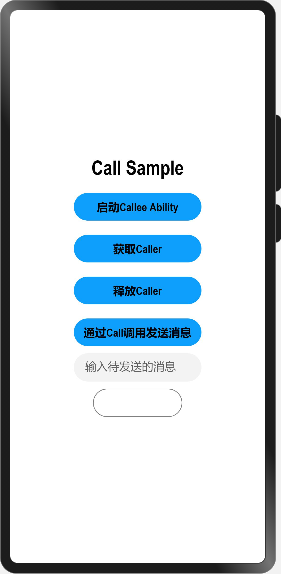
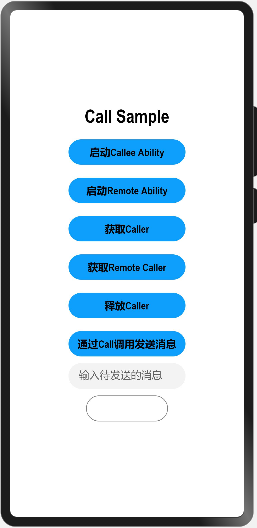
!464 添加跨设备stage demo * update ability/eTSStageCallAbility/entry/src/main/ets/model/ButtonClickModel.ts. * update ability/eTSStageCallAbility/entry/src/main/ets/MainAbility/Main… * update ability/eTSStageCallAbility/entry/src/main/ets/model/ButtonClickModel.ts. * update ability/eTSStageCallAbility/en

diff --git a/ability/eTSStageCallAbility/entry/src/main/ets/MainAbility/MainAbility.ts b/ability/eTSStageCallAbility/entry/src/main/ets/MainAbility/MainAbility.ts
@@ -15,22 +15,74 @@
 
 import Ability from '@ohos.application.Ability'
 import Logger from '../model/Logger'
+import DeviceManager from '@ohos.distributedHardware.deviceManager'
+import AccessControl from "@ohos.abilityAccessCtrl"
+import Bundle from '@ohos.bundle'
 
 const TAG: string = '[MainAbility]'
+const BUNDLE_NAME = "ohos.samples.CallApplication"
+const PERMISSION_REJECT = -1
+
+function getDm() {
+    DeviceManager.createDeviceManager(BUNDLE_NAME, (error, dm) => {
+        if (error) {
+            Logger.error(TAG, `getDm failed with ${error.code}`)
+            return;
+        }
+        Logger.log(TAG, 'getDm success')
+        globalThis.dmClass = dm
+    });
+}
 
 export default class MainAbility extends Ability {
     onCreate(want, launchParam) {
         Logger.log(TAG, 'onCreate')
         globalThis.mainAbilityContext = this.context
+        getDm()
     }
 
     onDestroy() {
         Logger.log(TAG, 'onDestroy')
     }
 
+    requestPermissions = async () => {
+        let permissions: Array<string> = [
+            "ohos.permission.DISTRIBUTED_DATASYNC"
+        ];
+        let needGrantPermission = false
+        let accessManger = AccessControl.createAtManager()
+        Logger.log(TAG, 'app permission get bundle info')
+        let bundleInfo = await Bundle.getApplicationInfo(BUNDLE_NAME, 0, 100)
+        Logger.log(TAG, `app permission query permission ${bundleInfo.accessTokenId.toString()}`)
+        for (const permission of permissions) {
+            Logger.log(TAG, `app permission query grant status ${permission}`)
+            try {
+                let grantStatus = await accessManger.verifyAccessToken(bundleInfo.accessTokenId, permission)
+                if (grantStatus === PERMISSION_REJECT) {
+                    needGrantPermission = true
+                    break;
+                }
+            } catch (err) {
+                Logger.log(TAG, `app permission query grant status error ${permission} ${JSON.stringify(err)}`)
+                needGrantPermission = true
+                break;
+            }
+        }
+        if (needGrantPermission) {
+            Logger.log(TAG, 'app permission needGrantPermission')
+            try {
+                await this.context.requestPermissionsFromUser(permissions)
+            } catch (err) {
+                Logger.log(TAG, `app permission ${JSON.stringify(err)}`)
+            }
+        } else {
+            Logger.log(TAG, 'app permission already granted')
+        }
+    }
+
     onWindowStageCreate(windowStage) {
         Logger.log(TAG, 'onWindowStageCreate')
-
+        this.requestPermissions()
         windowStage.loadContent("pages/index").then((data) => {
             Logger.info(TAG, `load content succeed with data ${JSON.stringify(data)}`)
         }).catch((error) => {

diff --git a/ability/eTSStageCallAbility/entry/src/main/ets/model/ButtonClickModel.ts b/ability/eTSStageCallAbility/entry/src/main/ets/model/ButtonClickModel.ts
@@ -19,7 +19,23 @@ import Logger from '../model/Logger'
 const TAG: string = '[ButtonClickModel]'
 
 let context = globalThis.mainAbilityContext
+let dmClass = globalThis.dmClass
 const MSG_SEND_METHOD: string = 'CallSendMsg'
+
+function getRemoteDeviceId() {
+    Logger.log(TAG, 'getRemoteDeviceId start');
+    if (typeof dmClass === 'object' && dmClass != null) {
+        let list = dmClass.getTrustedDeviceListSync();
+        if (!list || !list.length) {
+            Logger.log(TAG, 'getRemoteDeviceId err: list is null');
+            return;
+        }
+        Logger.log(TAG, `MainAbility onButtonClick getRemoteDeviceId success: ${(list[0].deviceId).str}`);
+        return list[0].deviceId;
+    } else {
+        Logger.log(TAG, 'MainAbility onButtonClick getRemoteDeviceId err: dmClass is null');
+    }
+}
 
 export default class ButtonClickModel {
     caller = undefined
@@ -29,12 +45,26 @@ export default class ButtonClickModel {
     async onButtonStartSecondAbility() {
         try {
             await context.startAbility({
-                bundleName: "com.samples.CallApplication",
+                bundleName: "ohos.samples.CallApplication",
                 abilityName: "CalleeAbility"
             })
             Logger.log(TAG, 'start callee ability succeed')
         } catch (error) {
             Logger.error(TAG, `start callee ability failed with ${error.code}`)
+        }
+    }
+
+    // 跨设备启动一个Ability
+    async onButtonStartRemoteAbility() {
+        try {
+            await context.startAbility({
+                deviceId: getRemoteDeviceId(),
+                bundleName: "ohos.samples.CallApplication",
+                abilityName: "MainAbility"
+            })
+            Logger.log(TAG, 'start remote ability succeed')
+        } catch (error) {
+            Logger.error(TAG, `start remote ability failed with ${error.code}`)
         }
     }
 
@@ -54,7 +84,7 @@ export default class ButtonClickModel {
     async onButtonGetCaller() {
         try {
             this.caller = await context.startAbilityByCall({
-                bundleName: 'com.samples.CallApplication',
+                bundleName: 'ohos.samples.CallApplication',
                 abilityName: 'CalleeAbility'
             })
             if (this.caller === undefined) {
@@ -65,6 +95,25 @@ export default class ButtonClickModel {
             this.regOnRelease(this.caller)
         } catch (error) {
             Logger.error(TAG, `get caller failed with ${error}`)
+        }
+    }
+
+    // 以call调用的形式跨设备启动CalleeAbility，获取caller通信接口。若CalleeAbility未运行，会将CallAbility拉起并在后台运行。
+    async onButtonGetRemoteCaller() {
+        try {
+            this.caller = await context.startAbilityByCall({
+                deviceId: getRemoteDeviceId(),
+                bundleName: 'ohos.samples.CallApplication',
+                abilityName: 'CalleeAbility'
+            })
+            if (this.caller === undefined) {
+                Logger.error(TAG, 'get remote caller failed')
+                return
+            }
+            Logger.log(TAG, 'get remote caller success')
+            this.regOnRelease(this.caller)
+        } catch (error) {
+            Logger.error(TAG, `get remote caller failed with ${error}`)
         }
     }
 